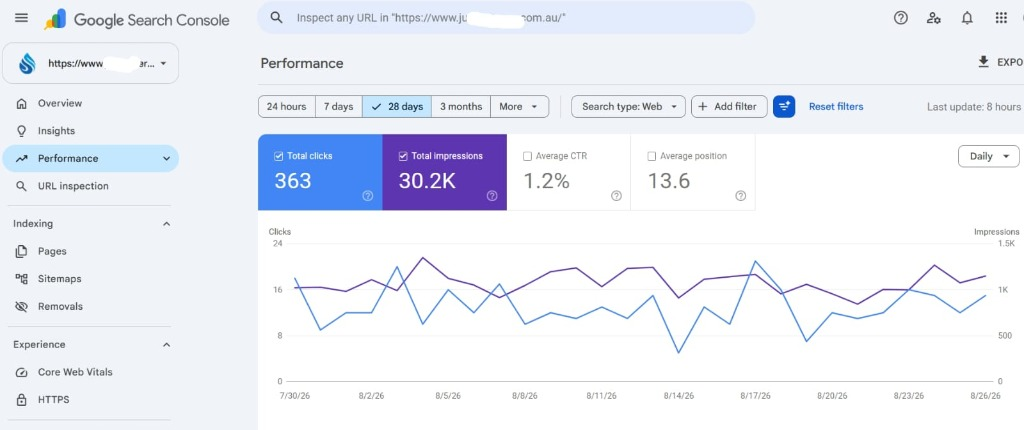
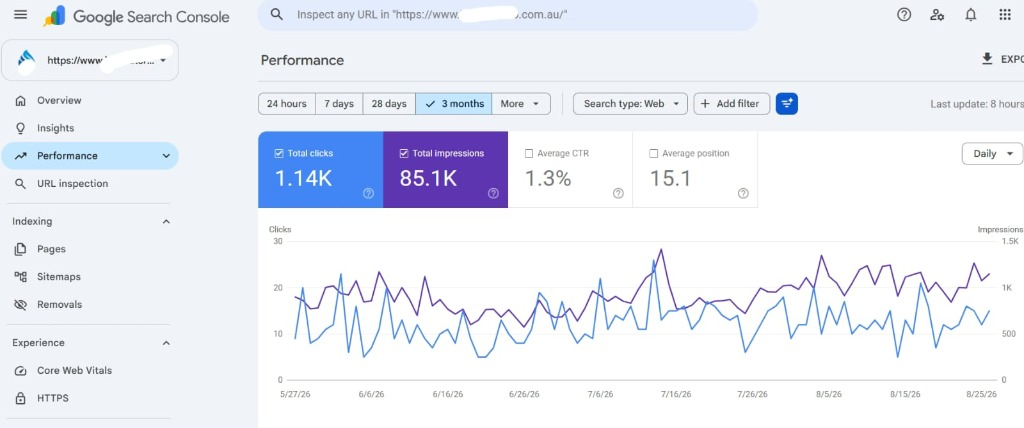
feat: Update Australian client case study with high-res GSC 1.14K clicks and 85.1K impressions performance screenshot

diff --git a/lib/data.js b/lib/data.js
@@ -587,7 +587,7 @@ export const caseStudies = [
       "Acquired 15+ Australian niche-relevant editorial links."
     ],
     results: "Organic impressions surged to 85.1K with 1,140+ targeted buyer clicks, climbing steadily up the ranks to average position 15.1 with multiple Page 1 breakouts.",
-    metrics: { total_impressions: "85.1K", total_clicks: "1.14K", avg_ctr: "1.3%", avg_position: "15.1 -> Page 1" },
+    metrics: { total_clicks: "1.14K", total_impressions: "85.1K", avg_ctr: "1.3%", avg_position: "15.1" },
     duration: "3 Months"
   }
 ];
